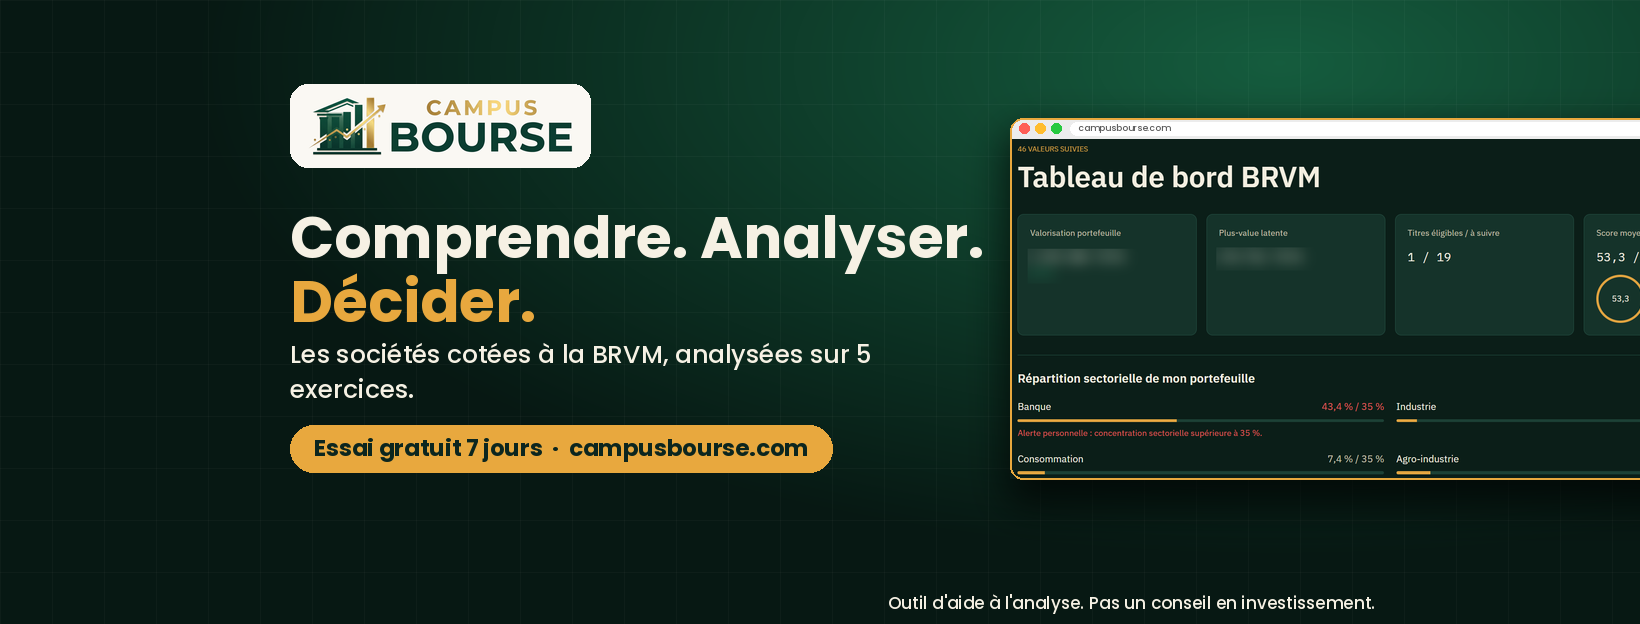
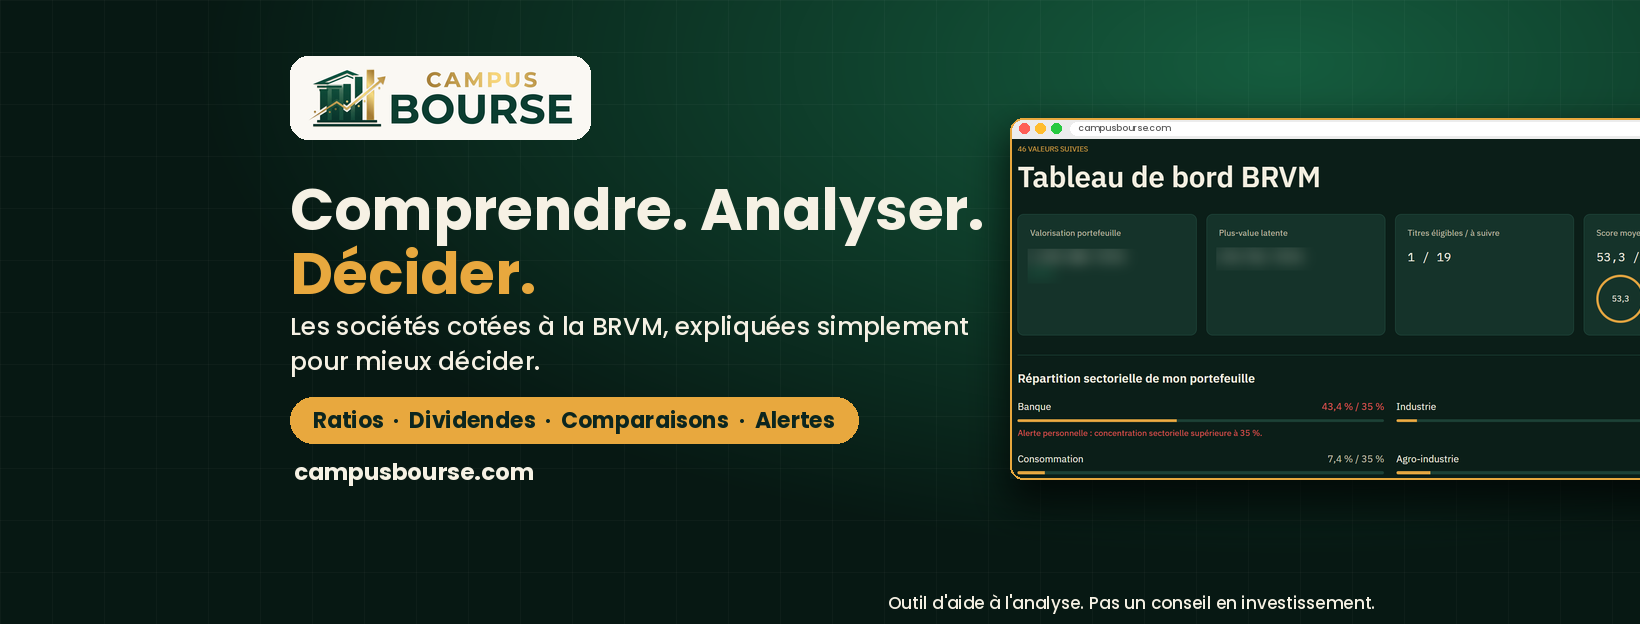
Couvertures : message de valeur, sans essai ni 5 exercices
Claude-Session: https://claude.ai/code/session_01WJsfPaBXK3SYATQ7sGtRQt

Changed region(s): [[0.1555, 0.3045, 0.622, 0.7917], [0.1555, 0.0913, 0.3732, 0.274]]

diff --git a/outils/couvertures.py b/outils/couvertures.py
@@ -58,16 +58,18 @@ def texte(im, x, y, s, logo_h, maxw, sous=True, site=True):
     y += int(s * .2)
     if sous:
         fs = fnt(M, int(s * .44)); cur = ""
-        for w in "Les sociétés cotées à la BRVM, analysées sur 5 exercices.".split(" "):
+        for w in "Les sociétés cotées à la BRVM, expliquées simplement pour mieux décider.".split(" "):
             if cur and d.textlength(cur + " " + w, font=fs) > maxw:
                 d.text((x, y), cur, font=fs, fill=IVOIRE + (215,)); y += int(s * .62); cur = w
             else: cur = (cur + " " + w).strip()
         d.text((x, y), cur, font=fs, fill=IVOIRE + (215,)); y += int(s * .75)
     if site:
-        fc = fnt(B, int(s * .4)); t = "Essai gratuit 7 jours  ·  campusbourse.com"; tw = d.textlength(t, font=fc)
-        ph = int(s * .82); y += int(s * .2)
+        fc = fnt(B, int(s * .38)); t = "Ratios  ·  Dividendes  ·  Comparaisons  ·  Alertes"; tw = d.textlength(t, font=fc)
+        ph = int(s * .8); y += int(s * .2)
         d.rounded_rectangle((x, y, x + tw + ph, y + ph), ph // 2, fill=OR)
-        d.text((x + ph / 2, y + ph / 2), t, font=fc, fill=FORET, anchor="lm"); y += ph
+        d.text((x + ph / 2, y + ph / 2), t, font=fc, fill=FORET, anchor="lm")
+        y += ph + int(s * .22)
+        d.text((x + 4, y), "campusbourse.com", font=fnt(B, int(s * .4)), fill=IVOIRE); y += int(s * .5)
     return y
 
 def legal(im, W, H, s, x=None, anchor="rs"):
@@ -79,23 +81,23 @@ def main(out):
     # Facebook 1640x624 — zone sûre mobile ≈ centre 1110 px ; photo de profil en bas à gauche
     W, H = 1640, 624; im = bg(W, H)
     frame(im, shot, 1010, 118, 760)
-    texte(im, 290, 84, 58, 84, maxw=680)
+    texte(im, 290, 56, 58, 84, maxw=680)
     legal(im, W, H, 17, x=1375)
     im.save(os.path.join(out, "couverture_facebook_1640x624.png"), optimize=True)
     # X 1500x500 — photo de profil en bas à gauche, bords haut/bas parfois rognés
     W, H = 1500, 500; im = bg(W, H)
     frame(im, shot, 930, 72, 650)
-    texte(im, 300, 58, 48, 70, maxw=590)
+    texte(im, 300, 40, 46, 66, maxw=590)
     legal(im, W, H, 16, x=1440)
     im.save(os.path.join(out, "couverture_x_1500x500.png"), optimize=True)
     # LinkedIn page 1128x191 (rendu en 2x : 2256x382) — logo de page en bas à gauche
     W, H = 2256, 382; im = bg(W, H, .8, .2)
-    frame(im, shot, 1560, 44, 600, rad=12)
+    frame(im, shot, 1640, 44, 560, rad=12)
     lg = badge(110); im.paste(lg, (430, 56), lg); d = ImageDraw.Draw(im, "RGBA")
     f = fnt(B, 62); xx = 430
     for w, col in (("Comprendre.", IVOIRE), ("Analyser.", IVOIRE), ("Décider.", OR)):
         d.text((xx, 190), w, font=f, fill=col); xx += d.textlength(w + " ", font=f)
-    d.text((430, 290), "Les sociétés cotées à la BRVM, analysées  ·  campusbourse.com", font=fnt(M, 34), fill=IVOIRE + (215,))
+    d.text((430, 290), "Ratios, dividendes, alertes : la BRVM en clair  ·  campusbourse.com", font=fnt(M, 34), fill=IVOIRE + (215,))
     im.save(os.path.join(out, "couverture_linkedin_2256x382.png"), optimize=True)
     im.resize((1128, 191), Image.LANCZOS).save(os.path.join(out, "couverture_linkedin_1128x191.png"), optimize=True)
     print("ok")
